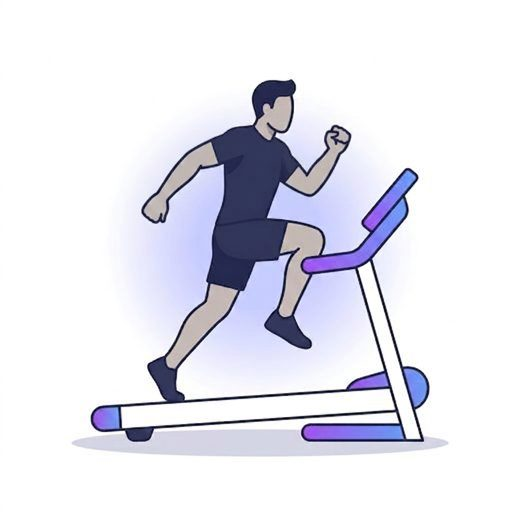
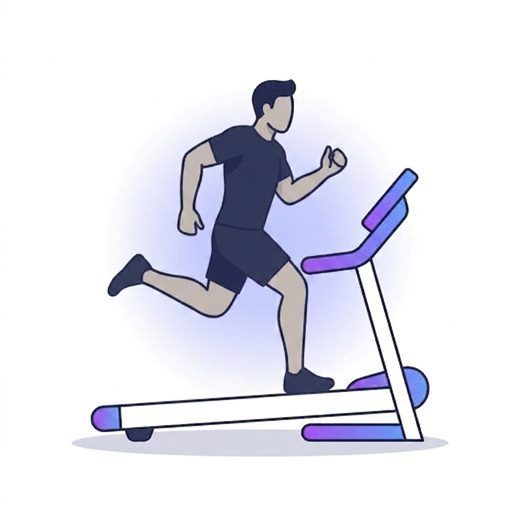
v15: la cinta ahora corre en serio — segundo cuadro con la zancada opuesta (apoyo y talon atras)

Changed region(s): [[0.4615, 0.2462, 0.6769, 0.7692], [0.1846, 0.2462, 0.4615, 0.7692], [0.4615, 0.2154, 0.4923, 0.2462]]

diff --git a/sw.js b/sw.js
@@ -2,7 +2,7 @@
    - index: red primero (las novedades llegan solas), caché de respaldo offline
    - dibujos e íconos: caché primero (no cambian nunca)
    - IMPORTANTE: nunca se guardan respuestas fallidas (404, etc.) */
-const CACHE = 'entrenador-v14';
+const CACHE = 'entrenador-v15';
 self.addEventListener('install', (e) => {
   e.waitUntil(caches.open(CACHE).then(c => c.addAll(['./', './index.html', './manifest.json', './icon-192.png'])).then(() => self.skipWaiting()));
 });
